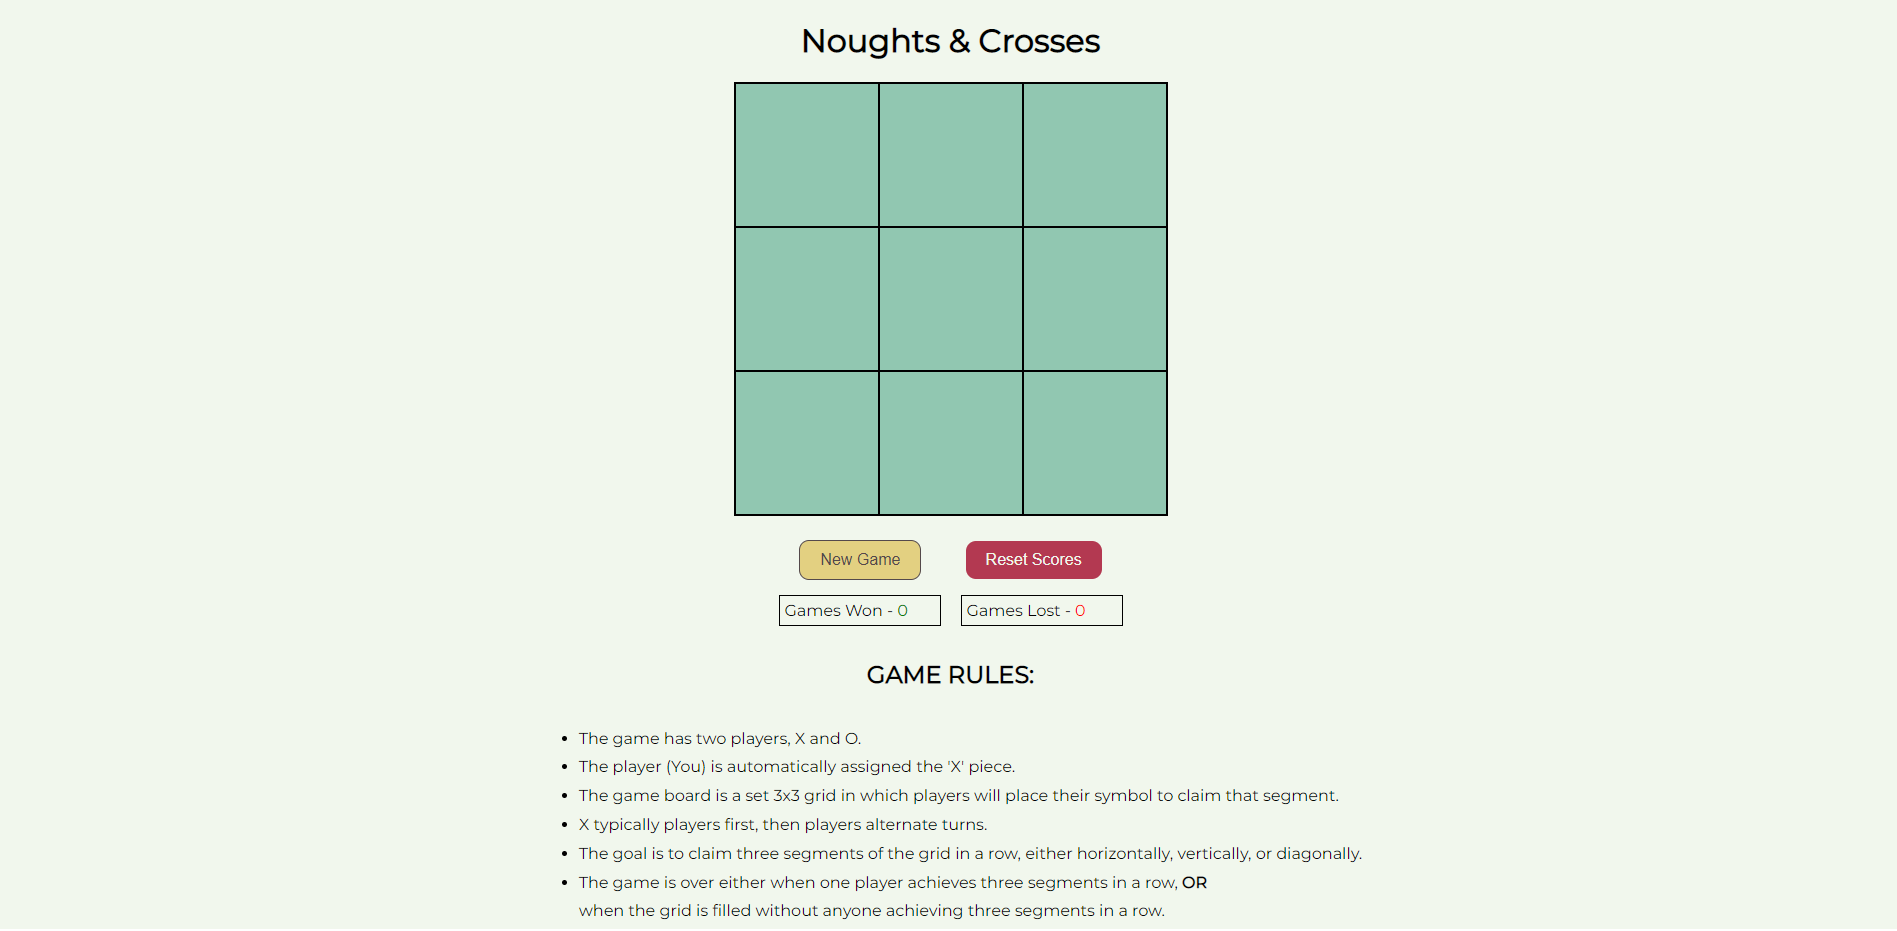
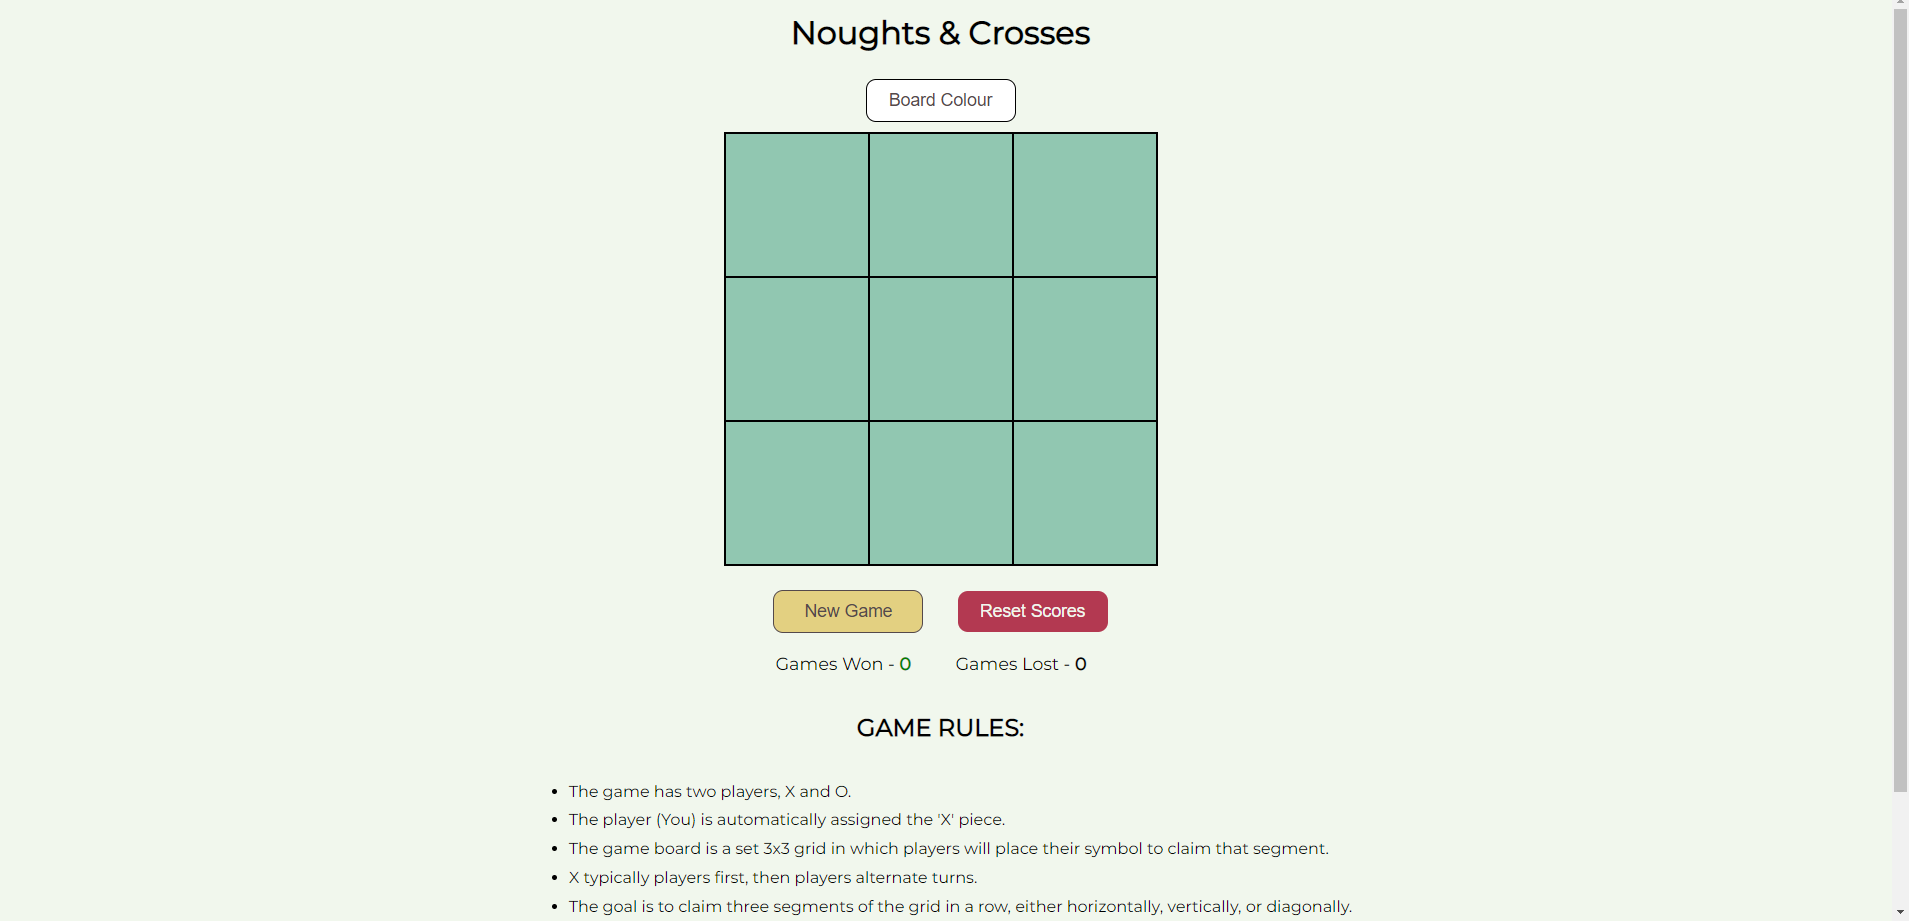
docs: update features descriptions and images in README.md

diff --git a/README.md b/README.md
@@ -70,11 +70,12 @@
 #### Returning User
 4. As a retruning user, I want to be able to see my scores of games won vs games lost
 5. As a retruning user, I want to be able to reset my scores and clear all previous scores
+6. As a retruning user, I want to be able to leave feedback of my experience
 
 #### Site Owner 
-6. As the site owner, I want users to feel challenged in their games
-7. As the site owner, I want users to have a full understanding of the layout of the page and where to play the game
-8. As the site owner, I want users to see if a page cannot be found, 404 page.
+7. As the site owner, I want users to feel challenged in their games
+8. As the site owner, I want users to have a full understanding of the layout of the page and where to play the game
+9. As the site owner, I want users to see if a page cannot be found, 404 page.
 
 ## Design
 
@@ -99,8 +100,9 @@ Sans-serif was used as a back-up font should Montserrat not be available.
 The page is structured in a user friendly, and easy to learn way. When arriving to the website the user sees a gameboard area in the center of the page, wit a fully detailed list of game rules beneath to describe how to play the game.
 
 
-The website consists 1 page: 
+The website consists 2 pages: 
 - A Home Page - This is where the user will engage in playing the game.
+- A 404 Page to show the user when an error has occurred 
 
 ### Wireframes
 
@@ -110,6 +112,7 @@ The website consists 1 page:
 <details><summary>404</summary>
 <img src="docs/wireframes/404-wireframe.png">
 </details>
+<br>
 
 ## Technologies Used
 
@@ -122,17 +125,18 @@ The website consists 1 page:
 - GitHub
 - Gitpod
 - Balsamiq
+- JSHint
 - Google Fonts
 - Google Images
 - Favicon<span>.</span>io
 - TinyPNG
 
 ## Features
-The page consists of one page with seven features
+The page consists of one page with 9 features
 
 ### Homepage
 - This page is where the user will arrive.
-- User stories covered: 1, 7
+- User stories covered: 1, 8
 
 ![Homepage](docs/features/homepage.png)
 
@@ -144,9 +148,18 @@ The page consists of one page with seven features
 
 ### Gameboard 
 - This is where the user will interact with the page and pay the game against the computer
-- User stories covered: 3, 6
+- User stories covered: 3, 7
 
 ![Gameboard](docs/features/game-area.png)
+
+### Board Colors
+- This gives the user the chance to change the game board and symbol combinations
+- There are 3 choices: 
+  - Green/Red
+  - Orange/Black
+  - Grey/White
+
+![Board Colours](docs/features/board-colour-button-2.png)
 
 ### Game Buttons
 - Use of these buttons will do either of the following:
@@ -171,11 +184,18 @@ The page consists of one page with seven features
 
 ![Rules](docs/features/game-rules.png)
 
+### Feedback Form
+- This form is hidden until 'Give us feedback@ button is clicked.
+- Then a form appears for the user to enter their name, email and feedback comments.
+- User Stories Covered: 6
+
+![Feedback Form](docs/features/feedback-section.png)
+
 ### 404 Page
 - Description...
-- User stories covered: 8
+- User stories covered: 9
 
-![404 Page](link)
+![404 Page](docs/features/404-page.png)
 
 ## Validation
 
